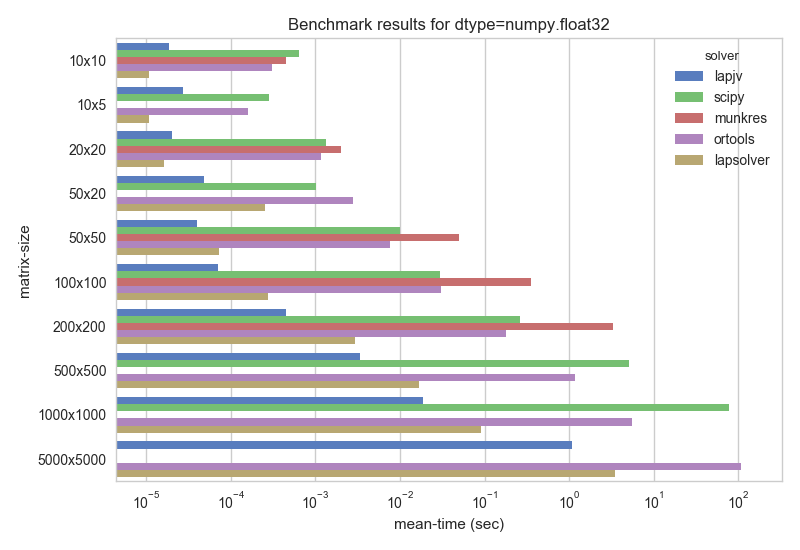
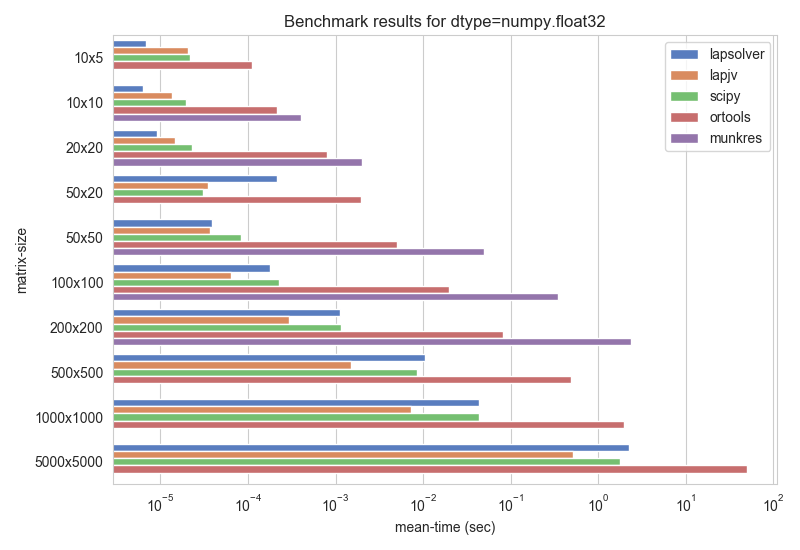
Refresh figures with minor fixes to plot script (#12)
* Remove limit on size of scipy problem in benchmark

* Fix plots in benchmark

Remove trailing whitespace.
Change order such that 10x5 comes before 10x10.

* Update benchmark plots

* Use size strings to make test output clearer

This also makes it easier to choose a subset of tests.

* Modify figure size to match past figures

Changed region(s): [[0.0, 0.0309, 0.9688, 0.9891]]

diff --git a/lapsolver/benchmarks/test_benchmark_solvers.py b/lapsolver/benchmarks/test_benchmark_solvers.py
@@ -1,3 +1,4 @@
+import collections
 from scipy.optimize import linear_sum_assignment
 import numpy as np
 import pytest
@@ -10,7 +11,7 @@ def load_solver_lapsolver():
     def run(costs):
         rids, cids = solve_dense(costs)
         return costs[rids, cids].sum()
-        
+
     return run
 
 def load_solver_scipy():
@@ -24,21 +25,21 @@ def load_solver_scipy():
 
 def load_solver_munkres():
     from munkres import Munkres, DISALLOWED
-    
+
     def run(costs):
         m = Munkres()
         idx = np.array(m.compute(costs), dtype=int)
         return costs[idx[:,0], idx[:,1]].sum()
-    
+
     return run
 
-def load_solver_lapjv():    
+def load_solver_lapjv():
     from lap import lapjv
 
     def run(costs):
         r = lapjv(costs, return_cost=True, extend_cost=True)
         return r[0]
-    
+
     return run
 
 def load_solver_ortools():
@@ -53,7 +54,7 @@ def load_solver_ortools():
             for c in range(costs.shape[1]):
                 if valid[r,c]:
                     assignment.AddArcWithCost(r, c, int(costs[r,c]*f))
-        
+
         # No error checking for now
         assignment.Solve()
         return assignment.OptimalCost() / f
@@ -65,7 +66,7 @@ def load_solvers():
         ('lapsolver', load_solver_lapsolver),
         ('lapjv', load_solver_lapjv),
         ('scipy', load_solver_scipy),
-        ('munkres', load_solver_munkres),        
+        ('munkres', load_solver_munkres),
         ('ortools', load_solver_ortools),
     ]
 
@@ -79,41 +80,43 @@ def load_solvers():
 
 
 solvers = load_solvers()
-sizes = [
-    ([10,10], -80040.0), 
-    ([10,5], -39518.0), 
-    ([20,20], -175988.0), 
-    ([50,20], -193922.0),
-    ([50,50], -467118.0),    
-    ([100,100], -970558.0),
-    ([200,200], -1967491.0),
-    ([500,500], -4968156.0),
-    ([1000,1000], -9968874.0),
-    ([5000,5000], -49969853.0),
-]
+size_to_expected = collections.OrderedDict([
+    ('10x5', -39518.0),
+    ('10x10', -80040.0),
+    ('20x20', -175988.0),
+    ('50x20', -193922.0),
+    ('50x50', -467118.0),
+    ('100x100', -970558.0),
+    ('200x200', -1967491.0),
+    ('500x500', -4968156.0),
+    ('1000x1000', -9968874.0),
+    ('5000x5000', -49969853.0),
+])
 size_max = [5000,5000]
 
 np.random.seed(123)
 icosts = np.random.randint(-1e4, 1e4, size=size_max)
+
 
 @pytest.mark.benchmark(
     min_time=1,
     min_rounds=2,
     disable_gc=False,
     warmup=True,
-    warmup_iterations=1    
+    warmup_iterations=1
 )
 @pytest.mark.parametrize('solver', solvers.keys())
 @pytest.mark.parametrize('scalar', [int, np.float32])
-@pytest.mark.parametrize('size,expected', sizes)
+@pytest.mark.parametrize('size', [k for k, v in size_to_expected.items()])
 
-def test_benchmark_solver(benchmark, solver, scalar, size, expected):
+def test_benchmark_solver(benchmark, solver, scalar, size):
+    dims = _parse_size(size)
+    expected = size_to_expected[size]
 
     exclude_above = {
         'munkres' : 200,
-        'scipy' : 1000,
         'ortools' : 5000
-    }    
+    }
 
     benchmark.extra_info = {
         'solver': solver,
@@ -121,14 +124,21 @@ def test_benchmark_solver(benchmark, solver, scalar, size, expected):
         'scalar': str(scalar)
     }
 
-    s = np.array(size)
+    s = np.array(dims)
     if (s > exclude_above.get(solver, sys.maxsize)).any():
         benchmark.extra_info['success'] = False
         return
 
-    costs = icosts[:size[0], :size[1]].astype(scalar).copy()
+    costs = icosts[:dims[0], :dims[1]].astype(scalar).copy()
     r = benchmark(solvers[solver], costs)
     if r != expected:
         benchmark.extra_info['success'] = False
+
+
+def _parse_size(size_str):
+    """Parses a string of the form 'MxN'."""
+    m, n = (int(x) for x in size_str.split('x'))
+    return m, n
+
 
 # pytest lapsolver -k test_benchmark_solver -v --benchmark-group-by=param:size,param:scalar -s --benchmark-save=bench

diff --git a/lapsolver/benchmarks/plot_results.py b/lapsolver/benchmarks/plot_results.py
@@ -8,7 +8,7 @@ import matplotlib.pyplot as plt
 def parse_args():
     parser = argparse.ArgumentParser(description='Plot benchmark results.', formatter_class=argparse.RawTextHelpFormatter)
 
-    parser.add_argument('benchmarkfile', type=str, help='Json file containing benchmark results')   
+    parser.add_argument('benchmarkfile', type=str, help='Json file containing benchmark results')
     #parser.add_argument('tests', type=str, help='Directory containing tracker result files')
     #parser.add_argument('--loglevel', type=str, help='Log level', default='info')
     #parser.add_argument('--fmt', type=str, help='Data format', default='mot15-2D')
@@ -17,7 +17,7 @@ def parse_args():
 
 def build_dataframe(args):
     dre = re.compile(r"'(.*)'")
-    
+
     with open(args.benchmarkfile) as f:
         data = json.load(f)
 
@@ -31,11 +31,14 @@ def build_dataframe(args):
 
 def draw_plots(df):
     sns.set_style("whitegrid")
-    for s,g in df.groupby('scalar'):
+    for s, g in df.groupby('scalar'):
+        print(g)
+        plt.figure(figsize=(8, 5.5))
         title='Benchmark results for dtype={}'.format(s)
-        ax = sns.barplot(x='mean-time', y='matrix-size', hue='solver', data=df, errwidth=0, palette="muted")
+        ax = sns.barplot(x='mean-time', y='matrix-size', hue='solver', data=g, errwidth=0, palette="muted")
         ax.set_xscale("log")
         ax.set_xlabel('mean-time (sec)')
+        plt.legend(loc='upper right')
         plt.title(title)
         plt.tight_layout()
         plt.savefig('benchmark-dtype-{}.png'.format(s), transparent=True, )
@@ -43,14 +46,12 @@ def draw_plots(df):
 
 
 def main():
-    print('here')
     args = parse_args()
 
     df = build_dataframe(args)
     draw_plots(df)
-    print(df)
-    
+
 
 if __name__ == '__main__':
     main()
-    
+
